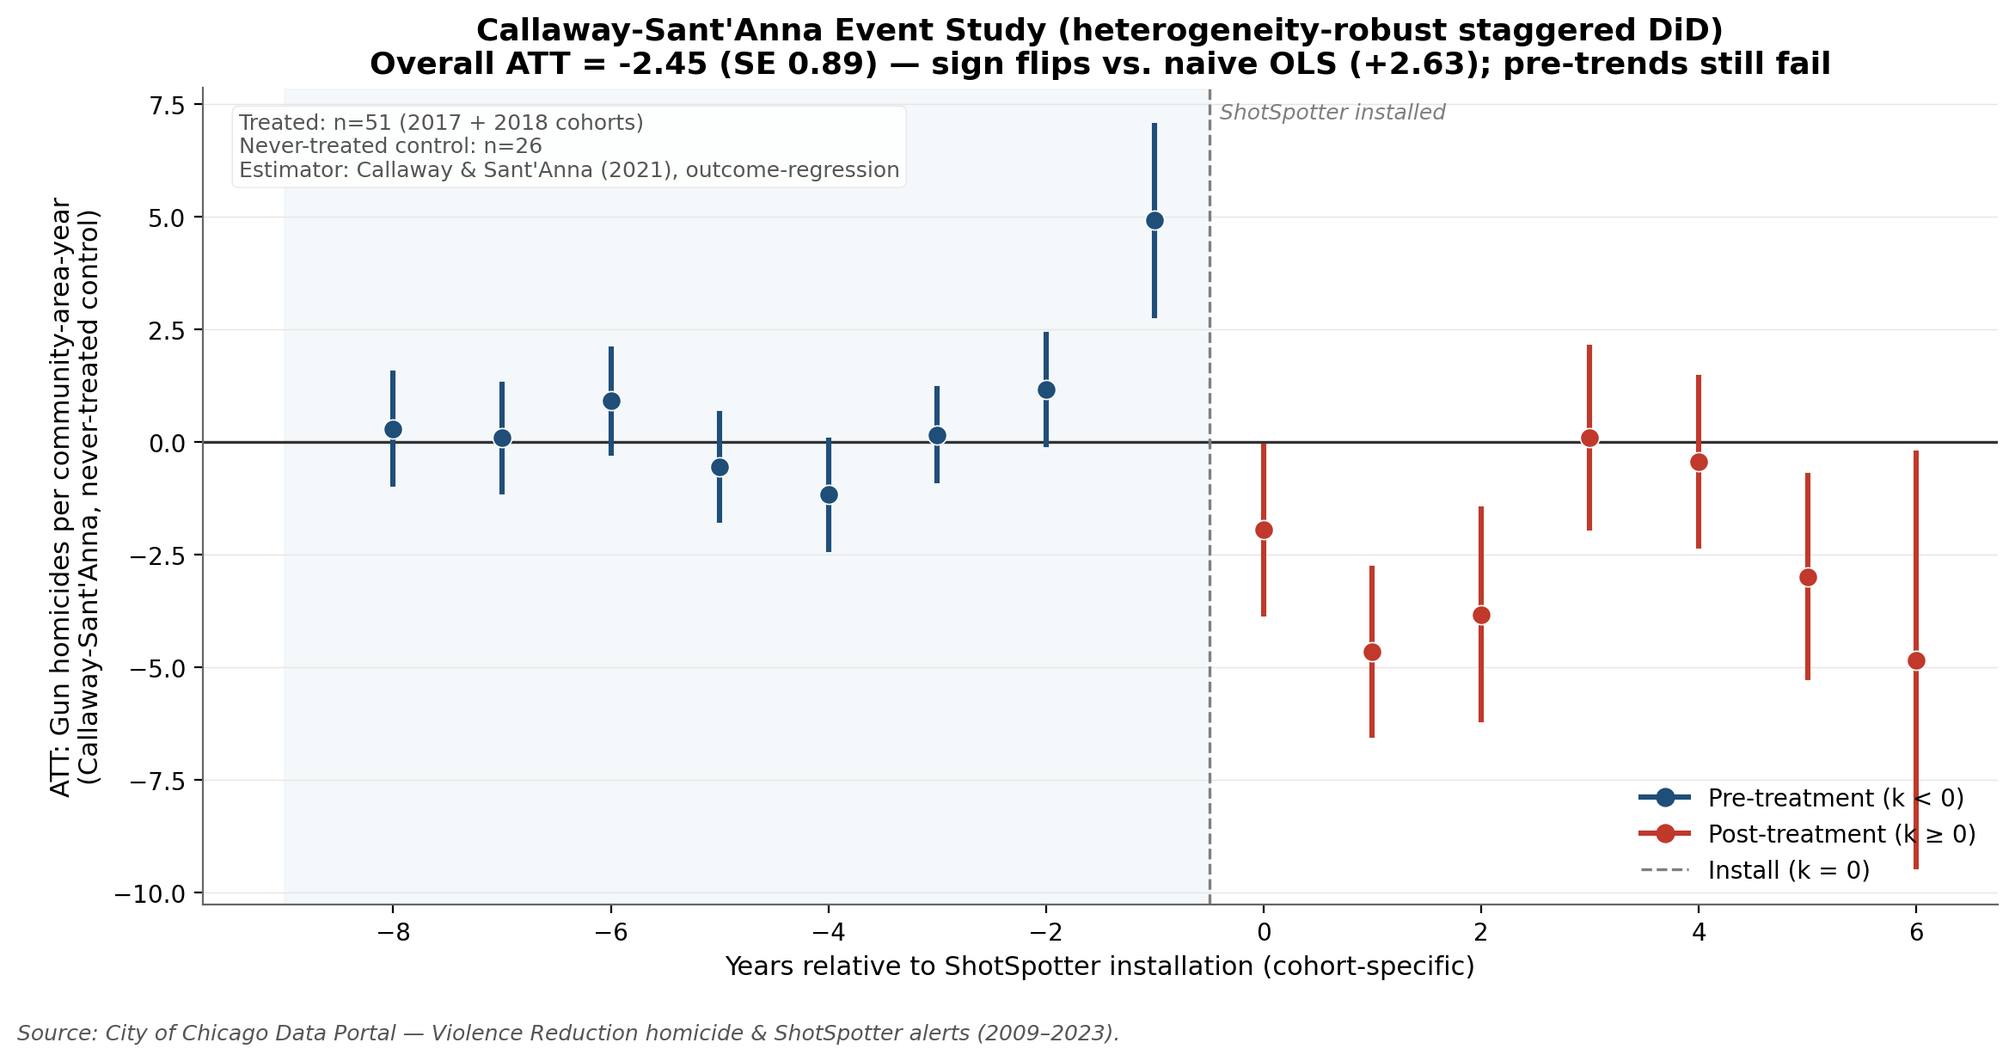
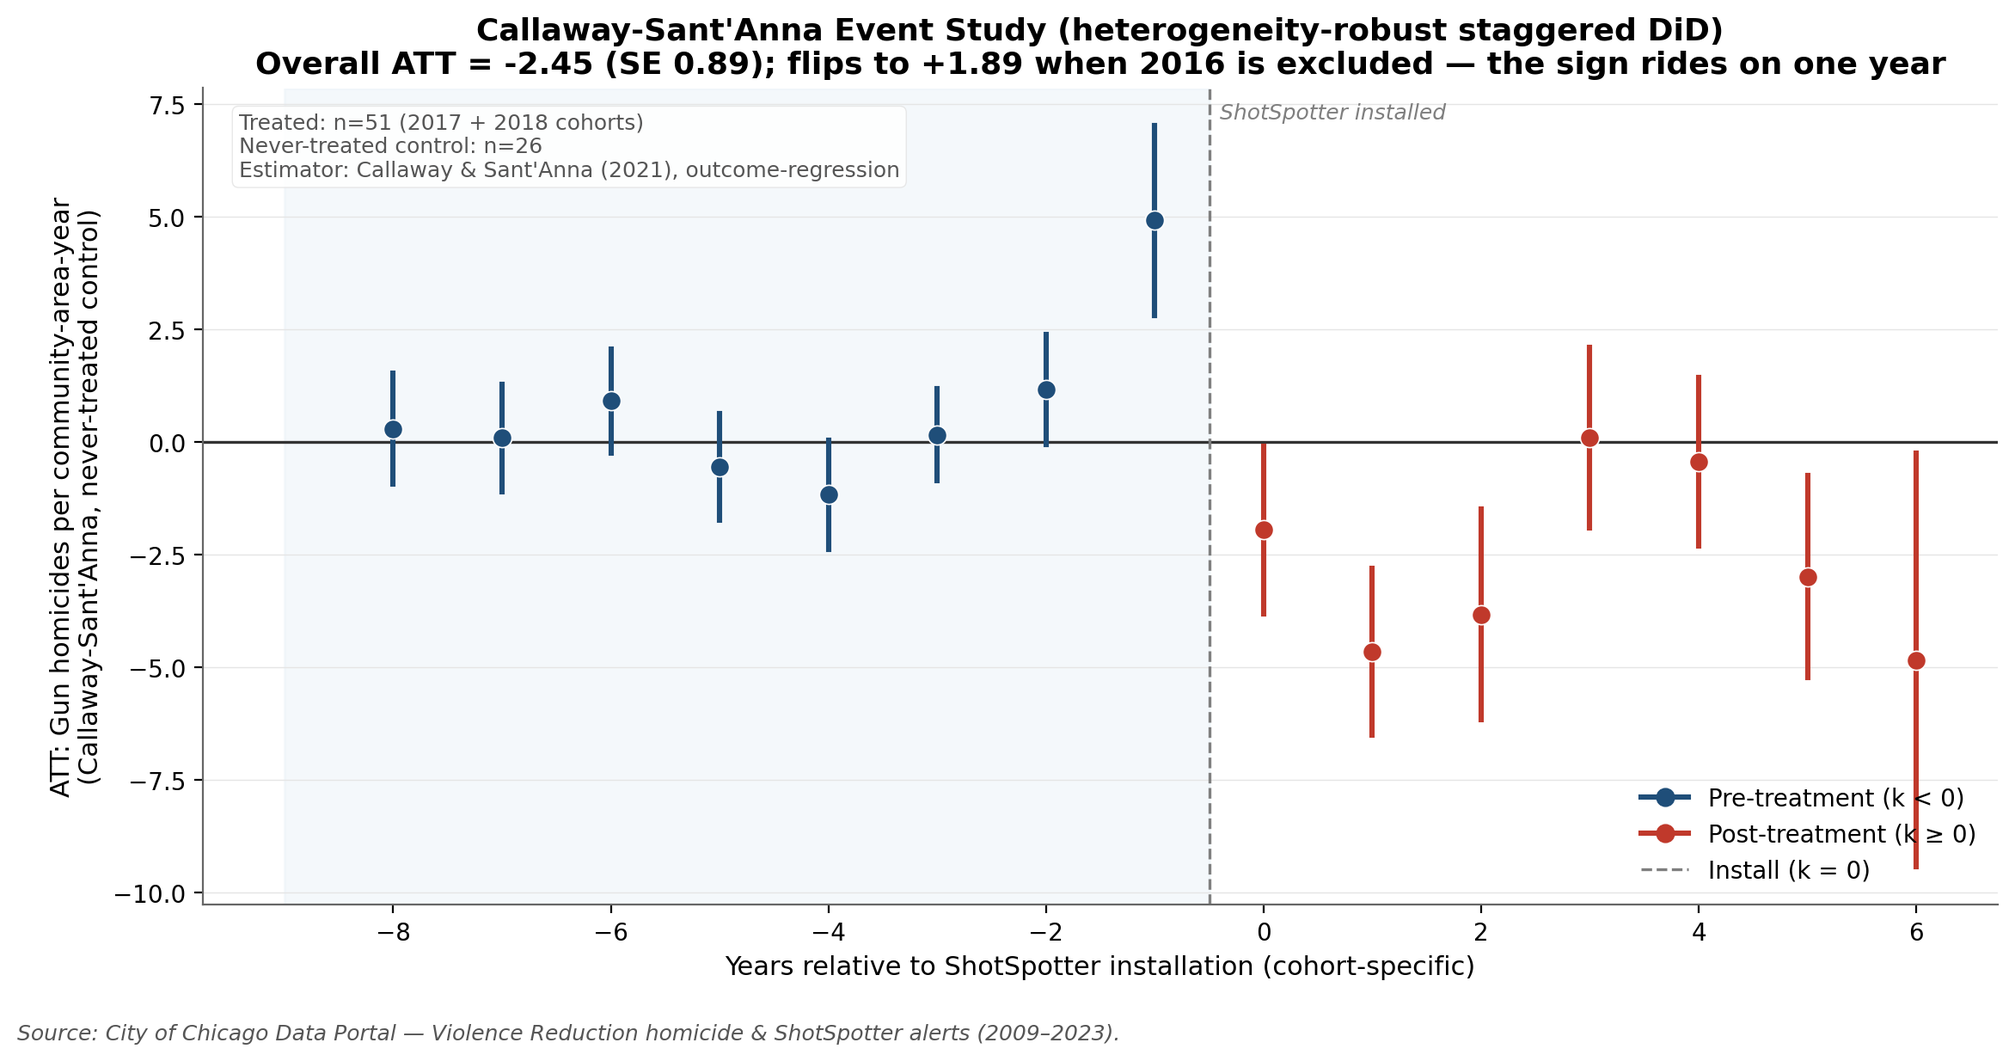
Address evaluation panel: temper the overclaim, fix factual/polish issues
Main fix — the headline "the sign is set by the method, not the data" framing was an
overclaim. Only Callaway-Sant'Anna flips sign, and a new robustness check shows it is a
single-year artifact: excluding the 2016 record-homicide year returns CS to +1.90
(same sign as OLS). Reframe README §7 + NARRATIVE §5.4/§6 around the honest story — no
valid control group + a 2016-contaminated pre-period => not identifiable — and add the
excl-2016 CS estimate to did_callaway_santanna.py and the results doc.

Also fixed (all verified by the panel):
- README "averaged ~9x" -> 4.6x per area (9x is the aggregate/total ratio).
- README placebo wording: note the placebos are opposite-signed, not "as large and as
  significant"; clarify the OLS "implied IRR 1.35" is a rescaled additive coefficient.
- Stale RESULTS_SUMMARY_V2.md references in two scripts -> correct filename.
- Doc generation made idempotent (strip-then-write) so re-running appenders no longer
  duplicates sections.
- NARRATIVE: reconcile "four models" -> "five classes"; remove dead mpatches import;
  pin differences>=0.3,<0.4.

Changed region(s): [[0.1246, 0.0308, 0.9654, 0.0924]]

diff --git a/scripts/did_callaway_santanna.py b/scripts/did_callaway_santanna.py
@@ -27,7 +27,6 @@ import numpy as np
 import pandas as pd
 import matplotlib.pyplot as plt
 from matplotlib.lines import Line2D
-import matplotlib.patches as mpatches
 
 warnings.filterwarnings("ignore")
 
@@ -143,6 +142,20 @@ print(f"\n  Overall ATT (never-treated control):    {overall_nt:+.3f}  (SE {over
 print(f"  Overall ATT (not-yet-treated control):  {overall_ny:+.3f}  (SE {overall_ny_se:.3f})")
 print("  (Compare: naive OLS DiD = +2.63; Poisson/NegBin = statistically null.)")
 
+# Robustness: is the negative sign a property of the estimator, or of one anomalous year?
+# 2016 was a Chicago-wide homicide-record year that sits at the k=-1 baseline for the 2017
+# cohort. Drop 2016 and re-estimate; if the sign flips back to positive, the negative ATT is
+# a single-year artifact, not evidence that "the method determines the sign".
+cs_data_no16 = (panel[panel["year"] != 2016][["ca_num", "year", "gun_hom", "cohort"]]
+                .set_index(["ca_num", "year"]).sort_index())
+att_no16 = ATTgt(data=cs_data_no16, cohort_column="cohort")
+att_no16.fit(formula="gun_hom", control_group="never_treated", progress_bar=False)
+simple_no16 = att_no16.aggregate("simple")
+overall_no16 = float(simple_no16.iloc[0, 0])
+overall_no16_se = float(simple_no16.iloc[0, 1])
+print(f"  Overall ATT (never-treated, EXCL. 2016): {overall_no16:+.3f}  (SE {overall_no16_se:.3f})"
+      "   <- sign vs. full panel shows the 2016 dependence")
+
 # Event-study aggregation (never-treated control)
 ev = att_nt.aggregate("event")
 ev.columns = ["att", "se", "lower", "upper", "sig"]
@@ -183,8 +196,8 @@ ax.text(-0.4, ax.get_ylim()[1] * 0.96, "ShotSpotter installed",
 ax.set_xlabel("Years relative to ShotSpotter installation (cohort-specific)")
 ax.set_ylabel("ATT: Gun homicides per community-area-year\n(Callaway-Sant'Anna, never-treated control)")
 ax.set_title("Callaway-Sant'Anna Event Study (heterogeneity-robust staggered DiD)\n"
-             f"Overall ATT = {overall_nt:+.2f} (SE {overall_nt_se:.2f}) — "
-             "sign flips vs. naive OLS (+2.63); pre-trends still fail",
+             f"Overall ATT = {overall_nt:+.2f} (SE {overall_nt_se:.2f}); "
+             f"flips to {overall_no16:+.2f} when 2016 is excluded — the sign rides on one year",
              fontweight="bold")
 
 legend_handles = [
@@ -219,7 +232,8 @@ lines.append("### Overall ATT\n\n")
 lines.append("| Control group | Overall ATT | SE |\n")
 lines.append("|---|---|---|\n")
 lines.append(f"| Never-treated | {overall_nt:+.3f} | {overall_nt_se:.3f} |\n")
-lines.append(f"| Not-yet-treated | {overall_ny:+.3f} | {overall_ny_se:.3f} |\n\n")
+lines.append(f"| Not-yet-treated | {overall_ny:+.3f} | {overall_ny_se:.3f} |\n")
+lines.append(f"| Never-treated, **excl. 2016** | {overall_no16:+.3f} | {overall_no16_se:.3f} |\n\n")
 lines.append("### Event-study ATT(k), never-treated control\n\n")
 lines.append("| k (years from install) | ATT | SE | 95% CI |\n")
 lines.append("|---|---|---|---|\n")
@@ -227,22 +241,31 @@ for _, r in ev.iterrows():
     lines.append(f"| {int(r['k']):+d} | {r['att']:+.3f} | {r['se']:.3f} | "
                  f"[{r['lower']:+.3f}, {r['upper']:+.3f}] |\n")
 lines.append("\n")
-lines.append("> **What this adds.** The Callaway-Sant'Anna overall ATT is "
-             f"{overall_nt:+.2f} — *negative*, the opposite sign of the naive OLS DiD\n")
-lines.append("> (+2.63) and of the null count-data models. The estimate is not credible as a\n")
-lines.append("> treatment effect: the event study still shows a large, significant PRE-treatment\n")
-lines.append("> coefficient at k = -1 (the 2016 homicide-record year, one period before the 2017\n")
-lines.append("> cohort), so parallel trends fail even under the heterogeneity-robust estimator and\n")
-lines.append("> the post-period 'decline' is largely a mechanical reversion from that spike.\n")
-lines.append("> **The takeaway is the consistency of the inconsistency:** across OLS (+2.63),\n")
-lines.append("> Poisson/NegBin (null), and Callaway-Sant'Anna (negative), the *sign* of the\n")
-lines.append("> estimated effect is set by the choice of method, not by the data — which is the\n")
-lines.append("> project's central point that no design credibly identifies a causal effect.\n")
+lines.append("> **What this adds — read the sign with care.** The Callaway-Sant'Anna overall ATT\n")
+lines.append(f"> is {overall_nt:+.2f} (never-treated) / {overall_ny:+.2f} (not-yet-treated) — negative,\n")
+lines.append("> the opposite sign of OLS. But this is **not** evidence that 'the estimator determines\n")
+lines.append("> the sign.' The negative is driven almost entirely by the single 2016 record-homicide\n")
+lines.append(f"> year sitting at the k = -1 baseline: excluding 2016 gives {overall_no16:+.2f} "
+             f"(SE {overall_no16_se:.2f}),\n")
+lines.append("> the *same* sign as OLS. The event study confirms this — only the k = -1 (2016)\n")
+lines.append("> pre-coefficient is significant; the rest hover at zero. So the honest reading is not\n")
+lines.append("> that estimators mysteriously disagree, but that the estimate is dominated by one\n")
+lines.append("> anomalous year on top of a design with no valid control group — i.e. the causal\n")
+lines.append("> effect is **not identifiable** from these data, in either direction.\n")
 lines.append("\nFigure: `plots/callaway_santanna_event_study.png`\n")
 
-with open(os.path.join(P, "docs", "results_summary_reanalysis.md"), "a", encoding="utf-8") as f:
-    f.write("".join(lines))
-print("  Appended Section 8 to docs/results_summary_reanalysis.md")
+# Idempotent write: strip any prior Section 8 before re-appending (so re-running this
+# script does not duplicate the section). Run order: econometric_analysis (writes 1-4) ->
+# econometric_robustness (appends 5-7) -> this script (appends 8).
+doc_path = os.path.join(P, "docs", "results_summary_reanalysis.md")
+existing = open(doc_path, encoding="utf-8").read() if os.path.exists(doc_path) else ""
+marker = "\n## 8. Callaway-Sant'Anna"
+idx = existing.find(marker)
+if idx != -1:
+    existing = existing[:idx].rstrip() + "\n"
+with open(doc_path, "w", encoding="utf-8") as f:
+    f.write(existing + "".join(lines))
+print("  Wrote Section 8 to docs/results_summary_reanalysis.md")
 print("\n" + "=" * 72)
 print("DONE")
 print("=" * 72)

diff --git a/scripts/econometric_robustness.py b/scripts/econometric_robustness.py
@@ -12,7 +12,7 @@ Adds three improvements that the prior script left on the table:
      compares the post-treatment gap of each treated unit to the placebo
      distribution.
 
-Appends the new tables to RESULTS_SUMMARY_V2.md.
+Appends the new tables to docs/results_summary_reanalysis.md.
 """
 import os
 import sys
@@ -389,10 +389,10 @@ print(f"\n  SAVED: synthetic_control_inference.png")
 
 
 # =====================================================================
-# APPEND TO RESULTS_SUMMARY_V2.md
+# APPEND TO docs/results_summary_reanalysis.md
 # =====================================================================
 print("\n" + "=" * 72)
-print("APPENDING TO RESULTS_SUMMARY_V2.md")
+print("APPENDING TO docs/results_summary_reanalysis.md")
 print("=" * 72)
 
 lines = []
@@ -462,10 +462,20 @@ lines.append("> that synthetic control is infeasible for these data, not that th
 lines.append("> See NARRATIVE.md §5.5.\n")
 lines.append("\nFigure: `plots/synthetic_control_inference.png`\n")
 
-with open(os.path.join(P, "docs", "results_summary_reanalysis.md"), "a", encoding="utf-8") as f:
-    f.write("".join(lines))
+# Idempotent write: strip any prior robustness layer before re-appending, so re-running
+# this script does not duplicate Sections 5-8. (econometric_analysis.py writes Sections 1-4
+# in overwrite mode; this script appends 5-7; did_callaway_santanna.py appends 8 — run in
+# that order.)
+doc_path = os.path.join(P, "docs", "results_summary_reanalysis.md")
+existing = open(doc_path, encoding="utf-8").read() if os.path.exists(doc_path) else ""
+marker = "\n---\n# Robustness Layer"
+idx = existing.find(marker)
+if idx != -1:
+    existing = existing[:idx].rstrip() + "\n"
+with open(doc_path, "w", encoding="utf-8") as f:
+    f.write(existing + "".join(lines))
 
-print("  Appended results to docs/results_summary_reanalysis.md")
+print("  Wrote robustness results to docs/results_summary_reanalysis.md")
 print("\n" + "=" * 72)
 print("DONE")
 print("=" * 72)

diff --git a/scripts/econometric_analysis.py b/scripts/econometric_analysis.py
@@ -11,7 +11,7 @@ Implements four analyses that the original did_analysis.py omits:
      1999, 2003, and 2007 using the 1991-2008 panel and confirm that
      null effects emerge
 
-Updates RESULTS_SUMMARY_V2.md with the new estimates and writes plots
+Updates docs/results_summary_reanalysis.md with the new estimates and writes plots
 to the plots/ directory.
 """
 import os
@@ -485,10 +485,10 @@ print("  SAVED: event_study_cohort_aware.png")
 
 
 # =====================================================================
-# WRITE RESULTS_SUMMARY_V2.md
+# WRITE docs/results_summary_reanalysis.md
 # =====================================================================
 print("\n" + "=" * 72)
-print("WRITING RESULTS_SUMMARY_V2.md")
+print("WRITING docs/results_summary_reanalysis.md")
 print("=" * 72)
 
 lines = []

diff --git a/README.md b/README.md
@@ -24,9 +24,10 @@ order; [NARRATIVE.md](NARRATIVE.md) is the full write-up.
 
 ![OLS headline vs. count-data specifications](plots/specification_comparison.png)
 
-*The whole story in one figure: the OLS headline implies a large positive effect
-(IRR ≈ 1.35, p < 0.001) but collapses to a statistically null incidence-rate ratio
-(≈ 1.07) under both proper count-data models.*
+*The whole story in one figure. The OLS effect is the additive +2.63 coefficient shown
+on the multiplicative scale for comparison (implied IRR ≈ 1.35, p < 0.001); the Poisson
+and Negative Binomial points are genuinely-estimated incidence-rate ratios. Both
+count-data models collapse the headline to a statistically null IRR ≈ 1.07.*
 
 ## Headline result at a glance
 
@@ -70,8 +71,9 @@ and [docs/results_summary_reanalysis.md](docs/results_summary_reanalysis.md)
 ![Treatment vs. control community areas](plots/did_map_treatment_control.png)
 
 ShotSpotter coverage (blue) blankets the high-violence South and West sides, while the
-never-treated areas sit elsewhere in the city. The 51 covered community areas averaged
-roughly **nine times** the gun homicides of the 26 uncovered ones *before* deployment.
+never-treated areas sit elsewhere in the city. Before deployment, the 51 covered areas
+averaged roughly **4.6 times** the gun homicides *per area* of the 26 uncovered ones
+(about nine times in aggregate, since there are nearly twice as many covered areas).
 Treatment was assigned *because of* violence, not at random — which is the central
 problem every design here has to confront, and the reason the comparison leans
 entirely on the parallel-trends assumption.
@@ -92,27 +94,32 @@ The two-way fixed-effects OLS DiD returns **+2.63 gun homicides per area-year
 2016 — so it looks bulletproof. It is not. Annual homicide counts are small
 non-negative integers whose variance grows with their mean; OLS treats them as
 continuous and equal-variance. Estimated with the right model for counts — Poisson and
-Negative Binomial with the same fixed effects — the effect is **statistically null**
-(IRR ≈ 1.07, p ≈ 0.5; see the headline figure above). The "+2.6" is an artifact of the
-additive scale, not a treatment effect.
+Negative Binomial with the same fixed effects — the effect is **statistically null**: a
+small, non-significant *positive* point estimate (IRR ≈ 1.07, p ≈ 0.5; see the headline
+figure above), not the dramatic +2.6 the additive scale implies. The count models agree
+with OLS in *direction* but shrink the effect to noise on the natural multiplicative
+scale.
 
 ### 4. Parallel trends fail
 
 ![Cohort-aware event study](plots/event_study_cohort_aware.png)
 
-Every pre-treatment coefficient is large and negative — a clear parallel-trends
-violation, driven by 2016 (a Chicago-wide homicide-record year) sitting next to the
-event-study base period. A joint Wald test rejects parallel trends (F = 19.9,
-p = 0.006). Once the design fails this test, the DiD contrast cannot be read as causal.
+In this cohort event study every pre-treatment coefficient is large and negative — an
+artifact of 2016 (a Chicago-wide homicide-record year) sitting next to the base period.
+The robust evidence is a joint Wald test on the pre-treatment coefficients, which is
+invariant to the base year and rejects parallel trends (F = 19.9, p = 0.006). Once the
+design fails this test, the DiD contrast cannot be read as causal.
 
 ### 5. Fake treatment dates produce the same "effect"
 
 ![Falsification / placebo test](plots/falsification_plot.png)
 
 If +2.6 were a real treatment effect, assigning *fake* treatment dates years before
-ShotSpotter existed should yield nothing. Instead, the 1999 and 2003 placebos are as
-large and as "significant" (p < 0.01) as the real 2017 estimate. The design captures
-pre-existing trend differences across neighborhoods, not the intervention.
+ShotSpotter existed should yield nothing. Instead, the 1999 and 2003 placebos come back
+statistically significant (p < 0.01) and of comparable magnitude (β = −1.34 and −1.93).
+They are opposite-signed, but that is the point: a design that manufactures "significant"
+effects in years before the program existed is capturing pre-existing trend differences
+across neighborhoods, not the intervention.
 
 ### 6. There is no valid comparison group (synthetic control)
 
@@ -125,39 +132,44 @@ high-violence treated unit, so the optimizer collapses onto a single donor and t
 method is **infeasible**. The city left no comparable untreated neighborhood; the
 absence of a counterfactual is itself the finding.
 
-### 7. The modern estimator flips the sign
+### 7. The "modern estimator" sign rides on a single year
 
 ![Callaway–Sant'Anna event study](plots/callaway_santanna_event_study.png)
 
 The gold-standard estimator for staggered rollouts — Callaway & Sant'Anna (2021) —
-returns an overall ATT of **−2.45 (p < 0.01)**, the *opposite* sign of OLS. But it is
-no more credible: its own event study still shows a large, significant pre-treatment
-coefficient at *k* = −1 (the 2016 spike), so the post-period "decline" is mostly a
-mechanical reversion, not an effect.
+returns an overall ATT of **−2.45 (p < 0.01)** on the full panel, the *opposite* sign of
+OLS. But that negative is not a property of the method: it is driven almost entirely by
+the 2016 record-homicide year sitting at the *k* = −1 baseline. **Exclude 2016 and the
+same estimator returns +1.90 (p < 0.01) — back to the sign of OLS.** The event study
+makes this visible: only the *k* = −1 (2016) pre-coefficient is significant; the rest
+hover at zero.
 
-**The sign of the "effect" is set by the method, not the data:**
+So read honestly, the estimators do not show a mysterious "method-determined sign":
 
-| Estimator | Overall effect | Reads as | Survives its own diagnostics? |
-|---|---|---|---|
-| Naive OLS DiD | **+2.63** (p < 0.001) | *more* homicides | No — fails count-data & placebo checks |
-| Poisson / Neg. Binomial | IRR ≈ **1.07** (ns) | no effect | — (null) |
-| Callaway–Sant'Anna | **−2.45** (p < 0.01) | *fewer* homicides | No — fails pre-trends (k = −1 spike) |
+| Estimator | Full panel | What actually moves it |
+|---|---|---|
+| Naive OLS DiD | **+2.63** (p < 0.001) | additive scale, inflated by high-count areas |
+| Poisson / Neg. Binomial | IRR ≈ **1.07** (ns) | positive in sign, but null on the multiplicative scale |
+| Callaway–Sant'Anna | **−2.45** (p < 0.01) | flips to **+1.90** once the 2016 outlier year is dropped |
 
-Same panel, same outcome — the estimate runs from a significant *increase* to a
-significant *decrease* depending only on which estimator you pick, and none survives
-its own falsification test. That spread **is** the finding: the data do not pin down a
-causal effect.
+OLS and the count models actually agree in *direction* (both positive); only Callaway–
+Sant'Anna goes negative, and only because of one anomalous year. The real lesson is not
+"any answer is possible," but that every estimate is dominated by a single outlier year
+on top of a design with **no valid control group** (Step 6) and a **failed pre-trend
+test** (Step 4). With no clean counterfactual, the causal effect is simply **not
+identifiable from these data** — in either direction.
 
 ## Bottom line
 
 ShotSpotter did what it was built to do — *detect* gunfire that 911 calls miss. But
-across every design that respects the data, there is **no evidence it reduced gun
-homicides**, in either direction. The honest reading is neither "ShotSpotter increased
-violence" (the +2.6 is an artifact of the wrong model) nor "ShotSpotter cut violence"
-(that ignores an anomalous 2016 base year) — it is that **these data simply cannot
-identify a causal effect**, while ruling out the large reduction a $3M detection
-contract was meant to deliver. That null is itself the policy finding, and it is
-consistent with the city's 2023 decision to end the contract. Full argument and
+across every design that respects the data, there is **no credible evidence of an effect
+on gun homicides in either direction**. The honest reading is neither "ShotSpotter
+increased violence" (the +2.6 is an artifact of the additive scale) nor "ShotSpotter cut
+violence" (that reads a 2016-driven CS estimate too literally) — it is that, with no
+valid control group and a pre-period dominated by one outlier year, **these data simply
+cannot identify a causal effect**. They are also inconsistent with the large reduction a
+$3M detection contract was meant to deliver. That non-result is itself the policy
+finding, and it is consistent with the city's 2023 decision to end the contract. Full argument and
 limitations: [NARRATIVE.md](NARRATIVE.md).
 
 ## Limitations & next steps

diff --git a/docs/results_summary_reanalysis.md b/docs/results_summary_reanalysis.md
@@ -178,6 +178,7 @@ community area (analytic influence-function inference).
 |---|---|---|
 | Never-treated | -2.453 | 0.893 |
 | Not-yet-treated | -2.508 | 0.898 |
+| Never-treated, **excl. 2016** | +1.895 | 0.724 |
 
 ### Event-study ATT(k), never-treated control
 
@@ -199,15 +200,15 @@ community area (analytic influence-function inference).
 | +5 | -2.985 | 1.143 | [-5.226, -0.744] |
 | +6 | -4.839 | 2.345 | [-9.434, -0.243] |
 
-> **What this adds.** The Callaway-Sant'Anna overall ATT is -2.45 — *negative*, the opposite sign of the naive OLS DiD
-> (+2.63) and of the null count-data models. The estimate is not credible as a
-> treatment effect: the event study still shows a large, significant PRE-treatment
-> coefficient at k = -1 (the 2016 homicide-record year, one period before the 2017
-> cohort), so parallel trends fail even under the heterogeneity-robust estimator and
-> the post-period 'decline' is largely a mechanical reversion from that spike.
-> **The takeaway is the consistency of the inconsistency:** across OLS (+2.63),
-> Poisson/NegBin (null), and Callaway-Sant'Anna (negative), the *sign* of the
-> estimated effect is set by the choice of method, not by the data — which is the
-> project's central point that no design credibly identifies a causal effect.
+> **What this adds — read the sign with care.** The Callaway-Sant'Anna overall ATT
+> is -2.45 (never-treated) / -2.51 (not-yet-treated) — negative,
+> the opposite sign of OLS. But this is **not** evidence that 'the estimator determines
+> the sign.' The negative is driven almost entirely by the single 2016 record-homicide
+> year sitting at the k = -1 baseline: excluding 2016 gives +1.89 (SE 0.72),
+> the *same* sign as OLS. The event study confirms this — only the k = -1 (2016)
+> pre-coefficient is significant; the rest hover at zero. So the honest reading is not
+> that estimators mysteriously disagree, but that the estimate is dominated by one
+> anomalous year on top of a design with no valid control group — i.e. the causal
+> effect is **not identifiable** from these data, in either direction.
 
 Figure: `plots/callaway_santanna_event_study.png`
